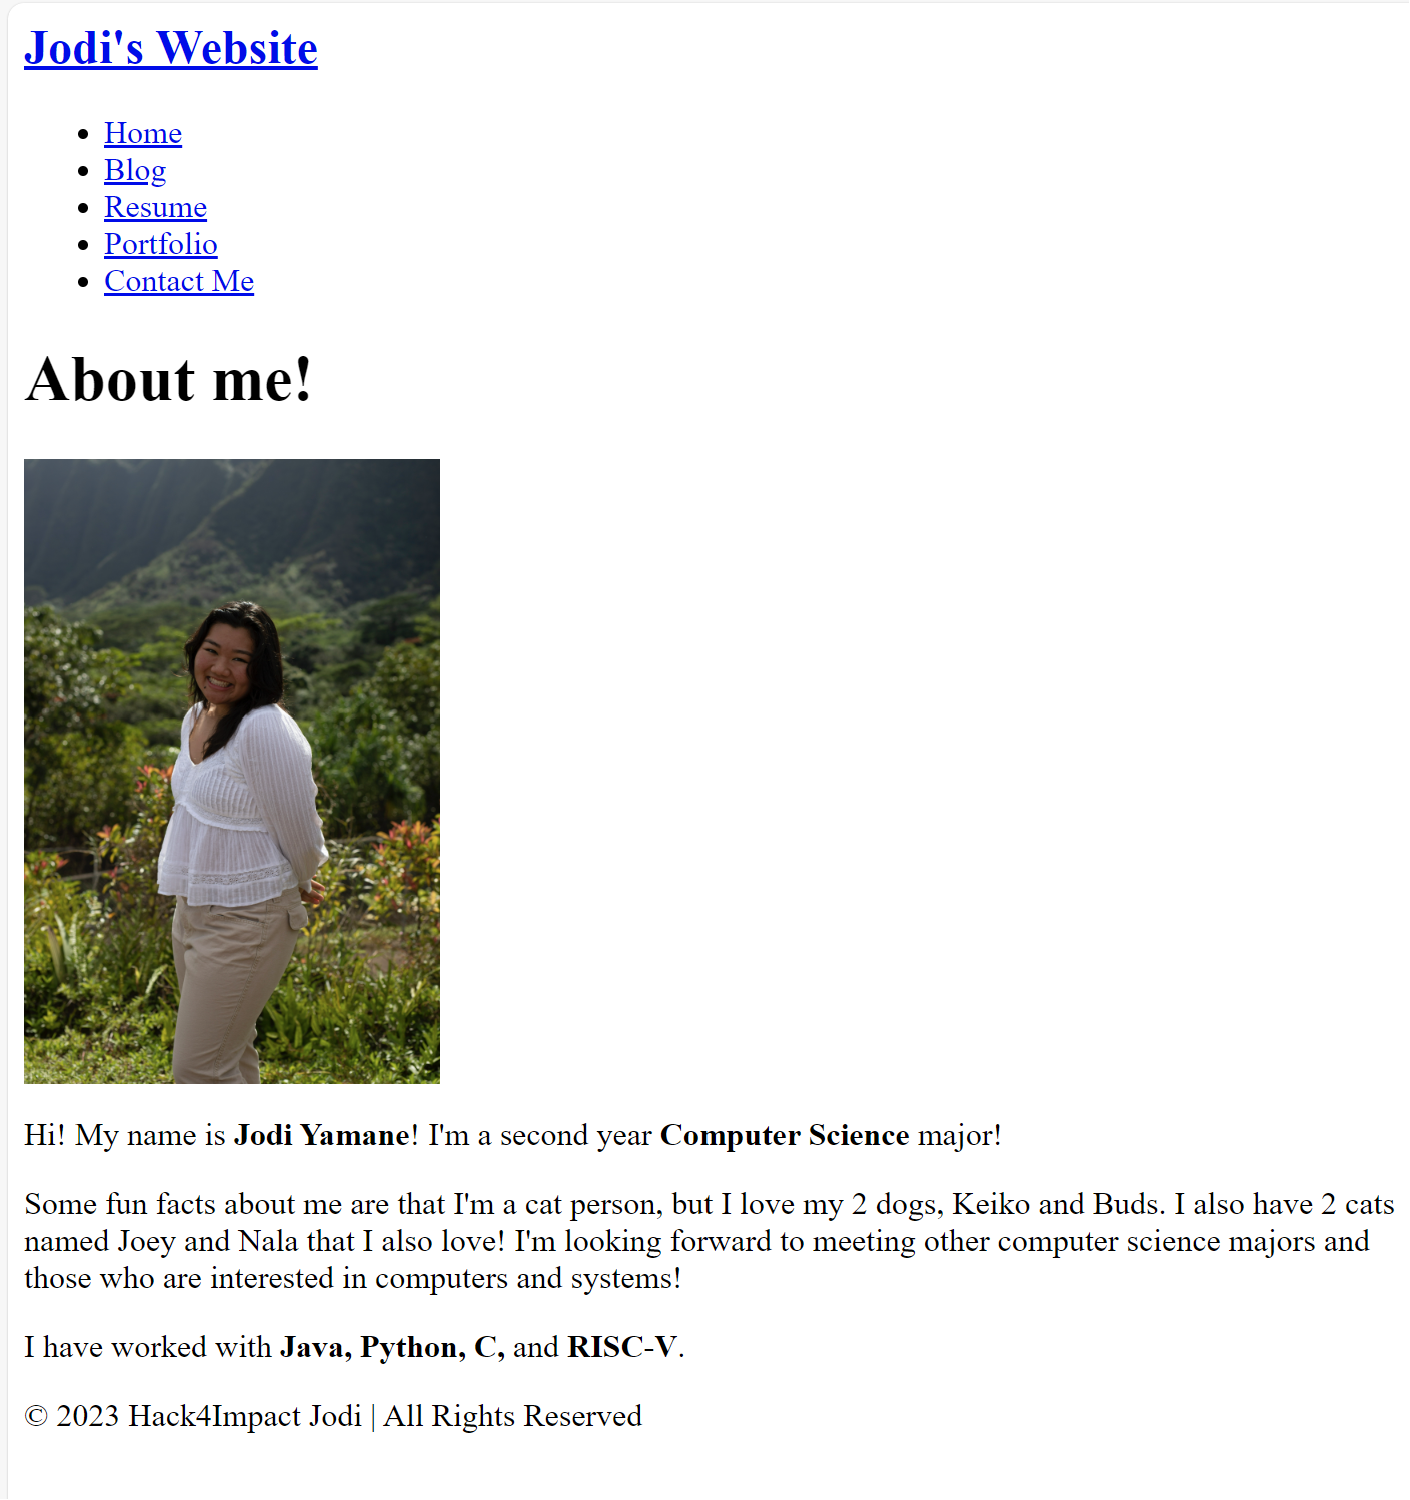
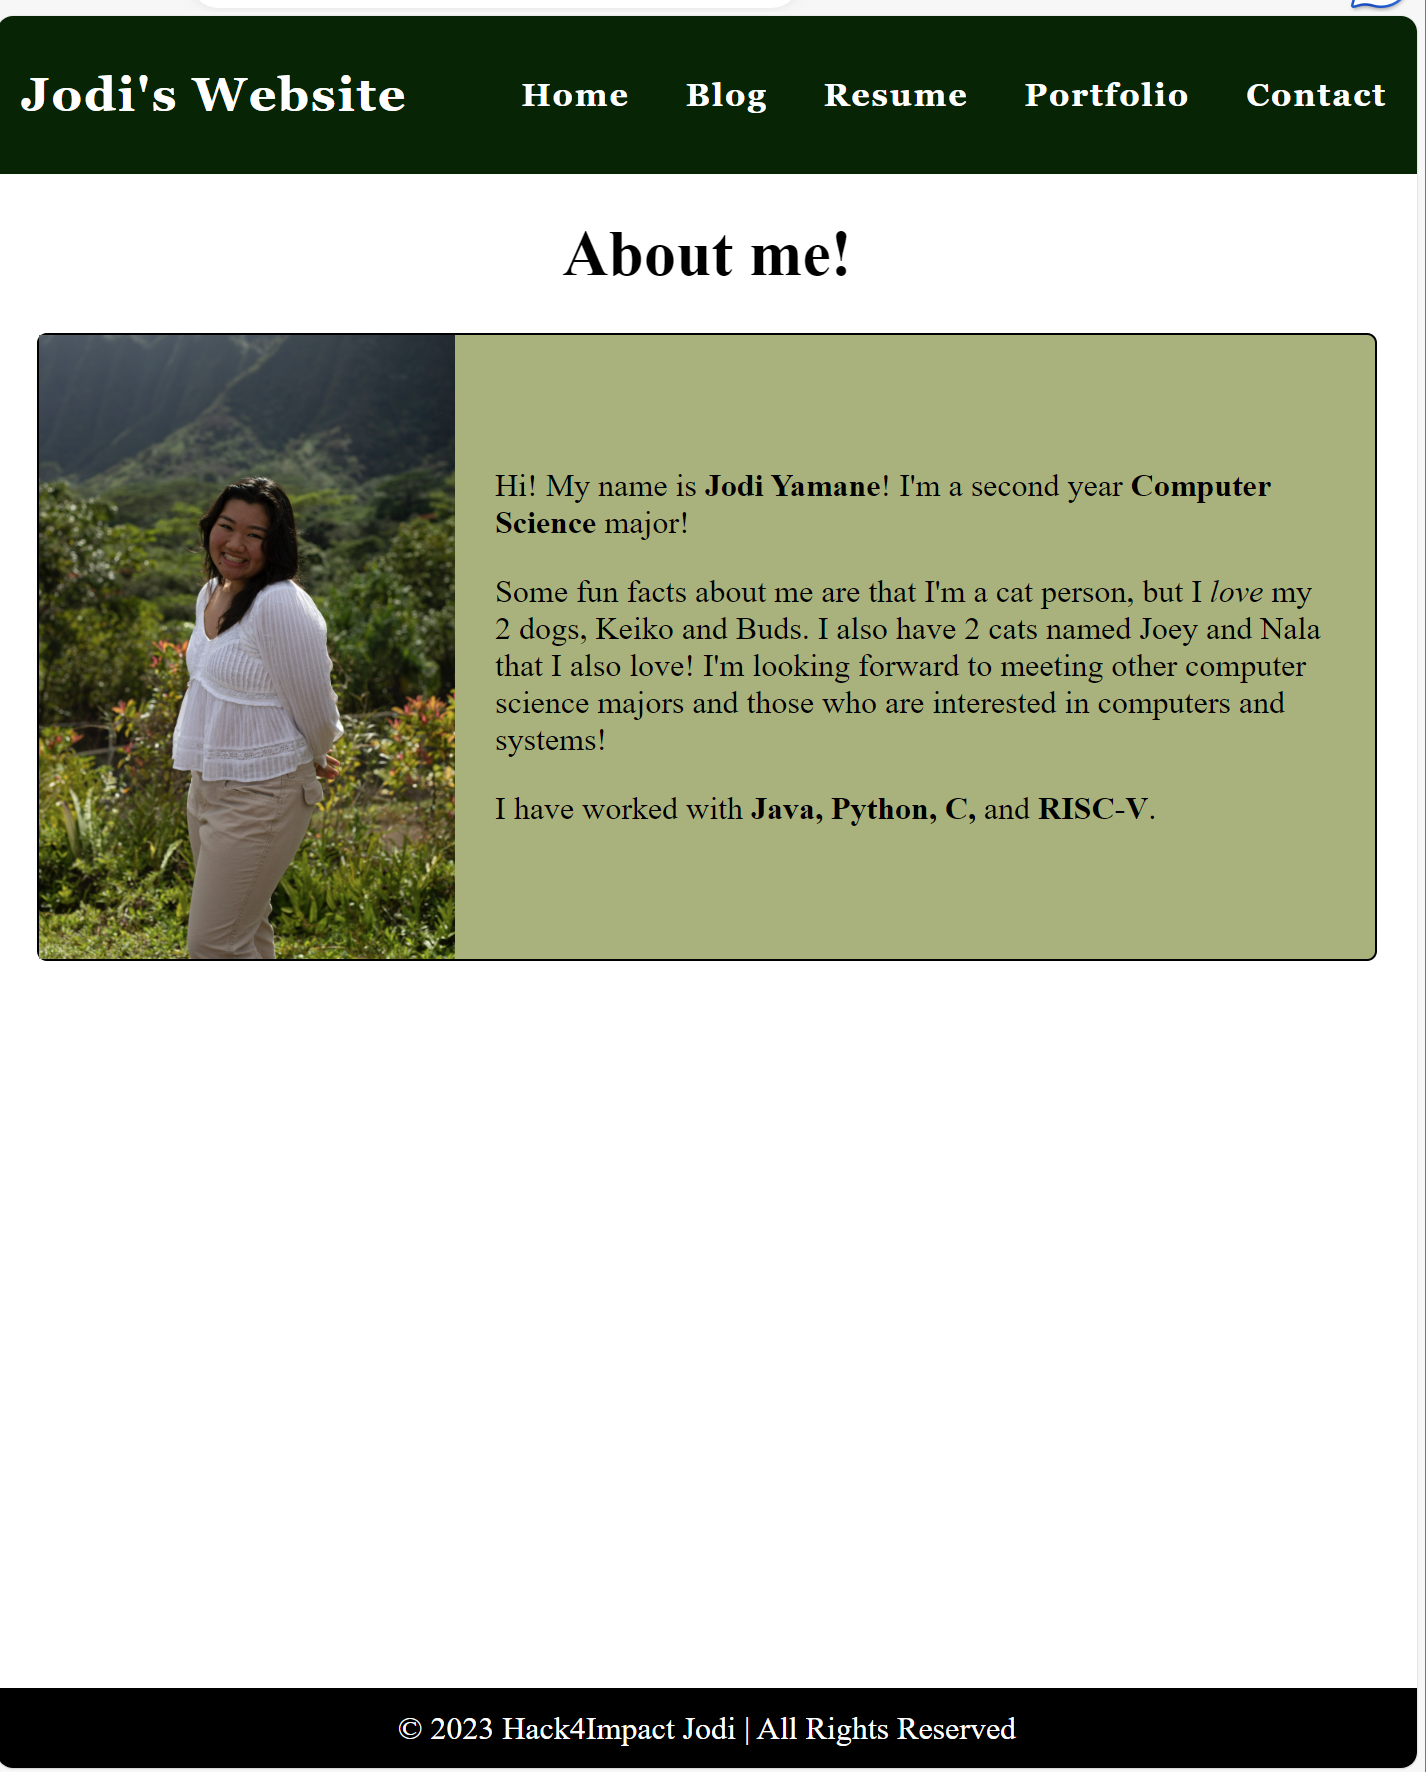
feat: I changed the portfolio photo I used and added some style to my pages

diff --git a/resume.html b/resume.html
@@ -10,13 +10,22 @@
             <h1 class="logo">
                 <a href="index.html">Jodi's Website</a>
             </h1>
-            <ul>
+            <table>
+                <tr>
+                    <td><a href="index.html">Home</a></td>
+                    <td><a href="blog.html">Blog</a></td>
+                    <td><a href="resume.html">Resume</a></td>
+                    <td><a href="portfolio.html">Portfolio</a></td>
+                    <td><a href="contact.html">Contact</a></td>
+                </tr>
+            </table>
+            <!-- <ul>
                 <li><a href="index.html">Home</a></li>
                 <li><a href="blog.html">Blog</a></li>
                 <li><a href="resume.html">Resume</a></li>
                 <li><a href="portfolio.html">Portfolio</a></li>
                 <li><a href="contact.html">Contact Me</a></li>
-            </ul>
+            </ul> -->
         </nav>
         <main>
             <h1 class="page-title">Resume</h1>
@@ -33,7 +42,7 @@
                     <h2 class="section-title">Experience</h2>
                     <div class="entry">
                         <h3 class="entry-title">Tutor</h3>
-                        <p class="entry-info">Personal Tutor|2018-2022</p>
+                        <p class="entry-info">Personal Tutor | 2018-2022</p>
                         <p class="entry-description">
                             <ul>
                                 <li>Planned lessions for allotted time to strengthen weak subjects and build skills.</li>
@@ -43,7 +52,7 @@
                             </ul>
                         </p>
                         <h3 class="entry-title"> <Co-Founder>Homelessness in Hawaii Club</Co-Founder></h3>
-                        <p class="entry-info">Club Co-founder|2019-2022</p>
+                        <p class="entry-info">Club Co-founder | 2019-2022</p>
                         <p class="entry-description">
                             <ul>
                                 <li>Head of Homelessness in Hawaii Club</li>
@@ -53,7 +62,7 @@
                             </ul>
                         </p>
                         <h3 class="entry-title">Teacher's Assistant</h3>
-                        <p class="entry-info">Elemental Minds|2022-2023</p>
+                        <p class="entry-info">Elemental Minds | 2022-2023</p>
                         <p class="entry-description">
                             <ul>
                                 <li>Individually taught small groups of under-proficient students.</li>
@@ -64,7 +73,7 @@
                             </ul>
                         </p>
                         <h3 class="entry-title">Leadership Mentor</h3>
-                        <p class="entry-info">Ka'i Program|June-July 2023</p>
+                        <p class="entry-info">Ka'i Program | June-July 2023</p>
                         <p class="entry-description">
                             <ul>
                                 <li>Taught leadership skills and working outside of their comfort zones.</li>
@@ -101,6 +110,14 @@
                     </ul>
                 </section>
                 <section class="section">
+                    <h2 class="list-title">Programming Languages</h2>
+                    <ul class="programming-languages-list">
+                        <li>Python</li>
+                        <li>Java</li>
+                        <li>C</li>
+                        <li>RISC-V</li>
+                        <li>Linus</li>
+                    </ul>
                     <h2 class="section-title">Skills</h2>
                     <ul class="skill-list">
                         <li>Efficient</li>
@@ -109,14 +126,6 @@
                         <li>Flexible/adaptable</li>
                         <li>Organized</li>
                         <li>Solid Communication</li>
-                    </ul>
-                    <h3 class="list-title">Programming Languages</h3>
-                    <ul class="programming-languages-list">
-                        <li>Python</li>
-                        <li>Java</li>
-                        <li>C</li>
-                        <li>RISC-V</li>
-                        <li>Linus</li>
                     </ul>
                 </section>
             </div>

diff --git a/blog.html b/blog.html
@@ -10,16 +10,31 @@
             <h1 class="logo">
                 <a href="index.html">Jodi's Website</a>
             </h1>
-            <ul>
+            <table>
+                <tr>
+                    <td><a href="index.html">Home</a></td>
+                    <td><a href="blog.html">Blog</a></td>
+                    <td><a href="resume.html">Resume</a></td>
+                    <td><a href="portfolio.html">Portfolio</a></td>
+                    <td><a href="contact.html">Contact</a></td>
+                </tr>
+            </table>
+            <!-- <ul>
                 <li><a href="index.html">Home</a></li>
                 <li><a href="blog.html">Blog</a></li>
                 <li><a href="resume.html">Resume</a></li>
                 <li><a href="portfolio.html">Portfolio</a></li>
                 <li><a href="contact.html">Contact Me</a></li>
-            </ul>
+            </ul> -->
         </nav>
         <main>
             <h1 class="page-title">Blog</h1>
+            <div class="first-Hack4Impact-proj">
+                <h3>First Hack4Impact Project | 10/1/23-10/3/23</h3>
+                <p class="how did it go?">
+                    So how did my first Hack4Impact project go? I would say <em>pretty</em> well! There were a few times where I struggled, such as when I was trying to commit to my own personal repository. I think I had such a hard time, because in my CSC 357 class this year my teacher made us create a SSH for GitHub. As a result, when I tried to commit to the repository, it didn't let me, because I wasn't using a key. Other than that, though, everything when smoothly and I had a great time designing this website!
+                </p>
+            </div>
         </main>
         <footer class="footer">© 2023 Hack4Impact Jodi | All Rights Reserved</footer>
     </body>

diff --git a/styles.css b/styles.css
@@ -1,0 +1,87 @@
+html{
+    height: 100%;
+}
+
+body{
+    background-color:white;
+    position: relative;
+    min-height: 100vh;
+    padding: 0;
+    margin: 0;
+}
+main{
+    padding: 0 20px 40px 20px;
+    display: flex;
+    flex-direction: column;
+    justify-content: center;
+    align-items: center;
+}
+
+.navbar{
+    position: -webkit-sticky;
+    position: sticky;
+    top: 0;
+    width: 100%;
+    height: 9%;
+    z-index: 10;
+
+    display: flex;
+    justify-content: space-between;
+    align-items: center;
+    text-align: center;
+
+    background-color: rgb(3, 36, 3);
+    color: white;
+    padding: 0px 0px;
+}
+
+.nav-list{
+    display: flex;
+    flex-direction: row;
+    position: relative;
+    right: 30px;
+    list-style: none;
+}
+
+.navbar a{
+    color: white;
+    font-weight: bold;
+    margin: 0 12px;
+    text-decoration: none;
+    letter-spacing: 1px;
+
+    font-family:Georgia, 'Times New Roman', Times, serif
+}
+
+.navbar a:hover{
+    color:rgb(168, 167, 167);
+    text-decoration: underline;
+}
+
+.about{
+    display:flex;
+    align-items: center;
+    justify-content: space-between;
+    background-color: rgb(168, 177, 120);
+    border: 1px solid black;
+    border-radius: 5px;
+}
+
+.about-text{
+    flex: 1;
+    margin-left: 20px;
+    margin-right: 20px;
+}
+
+
+.footer {
+    display: flex;
+    justify-content: center;
+    align-items: center;
+    background-color: black;
+    color: white;
+    position: absolute;
+    bottom: 0;
+    width: 100%;
+    height: 2.5rem;
+}

diff --git a/portfolio.html b/portfolio.html
@@ -10,18 +10,27 @@
             <h1 class="logo">
                 <a href="index.html">Jodi's Website</a>
             </h1>
-            <ul>
+            <table>
+                <tr>
+                    <td><a href="index.html">Home</a></td>
+                    <td><a href="blog.html">Blog</a></td>
+                    <td><a href="resume.html">Resume</a></td>
+                    <td><a href="portfolio.html">Portfolio</a></td>
+                    <td><a href="contact.html">Contact</a></td>
+                </tr>
+            </table>
+            <!-- <ul>
                 <li><a href="index.html">Home</a></li>
                 <li><a href="blog.html">Blog</a></li>
                 <li><a href="resume.html">Resume</a></li>
                 <li><a href="portfolio.html">Portfolio</a></li>
                 <li><a href="contact.html">Contact Me</a></li>
-            </ul>
+            </ul> -->
         </nav>
         <main>
             <h1 class="page-title">Portfolio</h1>
             <div class="project">
-                <a href="index.html"><img src="website_img.png" alt="This is what the index page of my website looks like!" width="470" height="500"></a>
+                <a href="index.html"><img src="website_img.png" alt="This is what the index page of my website looks like!" width="425" height="500"></a>
                 <div class="project-details">
                     <p class="project-name">
                     <h2>Creating a Website</h2>

diff --git a/contact.html b/contact.html
@@ -10,13 +10,22 @@
             <h1 class="logo">
                 <a href="index.html">Jodi's Website</a>
             </h1>
-            <ul>
+            <table>
+                <tr>
+                    <td><a href="index.html">Home</a></td>
+                    <td><a href="blog.html">Blog</a></td>
+                    <td><a href="resume.html">Resume</a></td>
+                    <td><a href="portfolio.html">Portfolio</a></td>
+                    <td><a href="contact.html">Contact</a></td>
+                </tr>
+            </table>
+            <!-- <ul>
                 <li><a href="index.html">Home</a></li>
                 <li><a href="blog.html">Blog</a></li>
                 <li><a href="resume.html">Resume</a></li>
                 <li><a href="portfolio.html">Portfolio</a></li>
                 <li><a href="contact.html">Contact Me</a></li>
-            </ul>
+            </ul> -->
         </nav>
         <main>
             <h1 class="page-title">Contact Me</h1>

diff --git a/index.html b/index.html
@@ -10,13 +10,22 @@
             <h1 class="logo">
                 <a href="index.html">Jodi's Website</a>
             </h1>
-            <ul>
+            <table>
+                <tr>
+                    <td><a href="index.html">Home</a></td>
+                    <td><a href="blog.html">Blog</a></td>
+                    <td><a href="resume.html">Resume</a></td>
+                    <td><a href="portfolio.html">Portfolio</a></td>
+                    <td><a href="contact.html">Contact</a></td>
+                </tr>
+            </table>
+            <!-- <ul>
                 <li><a href="index.html">Home</a></li>
                 <li><a href="blog.html">Blog</a></li>
                 <li><a href="resume.html">Resume</a></li>
                 <li><a href="portfolio.html">Portfolio</a></li>
                 <li><a href="contact.html">Contact Me</a></li>
-            </ul>
+            </ul> -->
         </nav>
         <main>
             <h1>About me!</h1>
